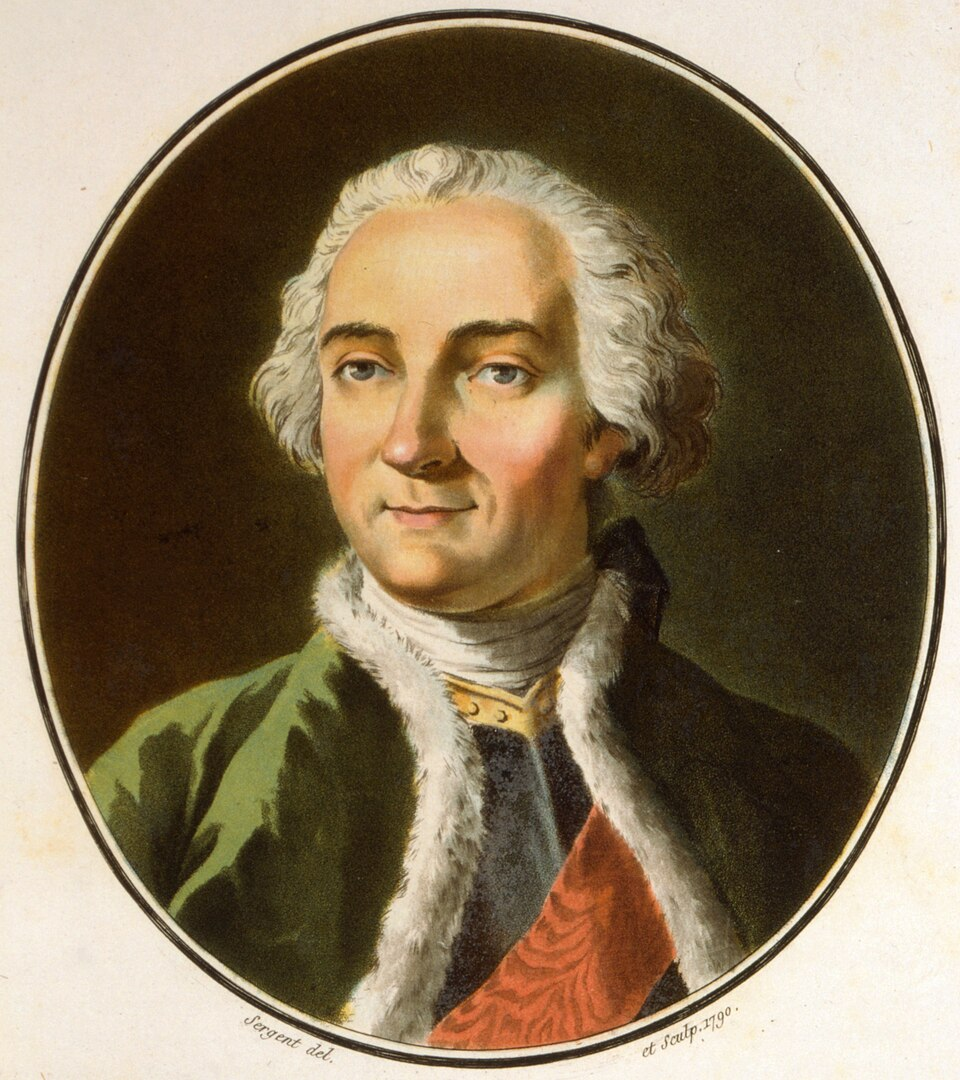
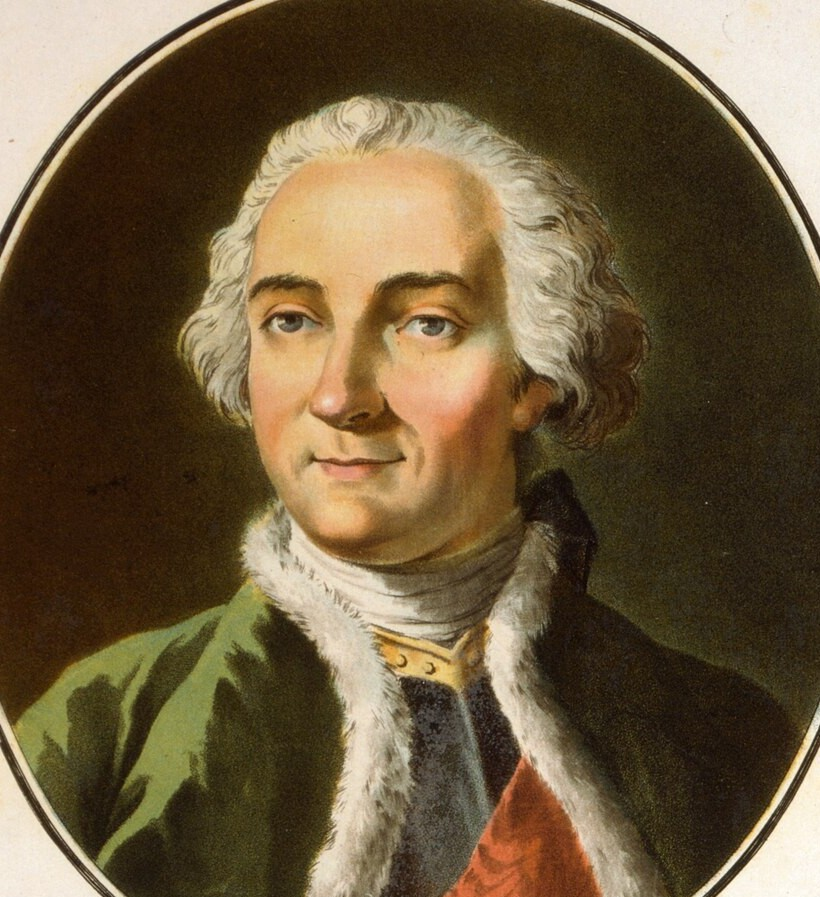
F&I commander cards: British/French pills + cropped portraits
The cast cards reused the Civil War card styling, so they showed UNION/CSA pills in
Union/Confederate colors. Tag the F&I cards with an `fi` class and override the pill
to BRITISH/FRENCH in the side colors (--brit/--french); CW cards unchanged.

Crop the four cast portraits that carried print mats, caption bars, or were
full-figure shots with a tiny face: Montcalm (oval engraving + 1790 caption),
Lévis (cream mat + caption banner), William Johnson (mezzotint caption, tightened
to head+torso), Wolfe (full-figure to head+torso). Self-hosted source files cropped,
so every card and arc-page header benefits.

diff --git a/src/app/war-civil-war/war-skin.css b/src/app/war-civil-war/war-skin.css
@@ -264,10 +264,15 @@
 .war-skin .p-cmdcard .pic::after { position: absolute; left: 7px; bottom: 7px; padding: 3px 7px; border-radius: 999px; font: 700 8.5px/1 var(--sans); letter-spacing: .07em; color: #fff; box-shadow: 0 1px 3px rgba(0, 0, 0, .4); }
 .war-skin .p-cmdcard.u .pic::after { content: 'UNION'; background: var(--union); }
 .war-skin .p-cmdcard.c .pic::after { content: 'CSA'; background: var(--confed); }
+/* French & Indian War cast cards (.fi): British/French identity, not Union/CSA. */
+.war-skin .p-cmdcard.fi.u .pic::after { content: 'BRITISH'; background: var(--brit); }
+.war-skin .p-cmdcard.fi.c .pic::after { content: 'FRENCH'; background: var(--french); }
 .war-skin .p-cmdcard b { display: block; margin-top: 8px; font: 500 16px/1.15 var(--serif); color: var(--ink); }
 .war-skin .p-cmdcard .meta { display: block; margin-top: 3px; font: 700 9.5px/1 var(--sans); letter-spacing: .4px; text-transform: uppercase; }
 .war-skin .p-cmdcard.u .meta { color: var(--union); }
 .war-skin .p-cmdcard.c .meta { color: var(--confed); }
+.war-skin .p-cmdcard.fi.u .meta { color: var(--brit); }
+.war-skin .p-cmdcard.fi.c .meta { color: var(--french); }
 .war-skin .p-cmdcard .ep { display: block; margin-top: 3px; font: italic 400 11.5px/1.35 var(--serif); color: var(--muted); }
 
 /* ===================== BATTLE PAGE (.bp-*) =====================

diff --git a/src/app/war-french-indian/cast/page.tsx b/src/app/war-french-indian/cast/page.tsx
@@ -53,7 +53,7 @@ export default function FICastPage() {
       <div className="p-page">
         <div className="p-cmdgrid">
           {list.map(c => (
-            <a key={c.id} className={'p-cmdcard ' + c.side} href={`/war-french-indian/cast/${c.id}/`}>
+            <a key={c.id} className={'p-cmdcard fi ' + c.side} href={`/war-french-indian/cast/${c.id}/`}>
               {/* eslint-disable-next-line @next/next/no-img-element */}
               <span className="pic"><img src={c.portrait} alt="" /></span>
               <b>{c.name}</b>

diff --git a/src/app/war-french-indian/page.tsx b/src/app/war-french-indian/page.tsx
@@ -93,7 +93,7 @@ function CastTab() {
       </div>
       <div className="p-cmdgrid">
         {CAST_LIST.map(c => (
-          <a key={c.id} className={'p-cmdcard ' + c.side} href={`/war-french-indian/cast/${c.id}/`}>
+          <a key={c.id} className={'p-cmdcard fi ' + c.side} href={`/war-french-indian/cast/${c.id}/`}>
             {/* eslint-disable-next-line @next/next/no-img-element */}
             <span className="pic"><img src={c.portrait} alt="" /></span>
             <b>{c.name}</b>
